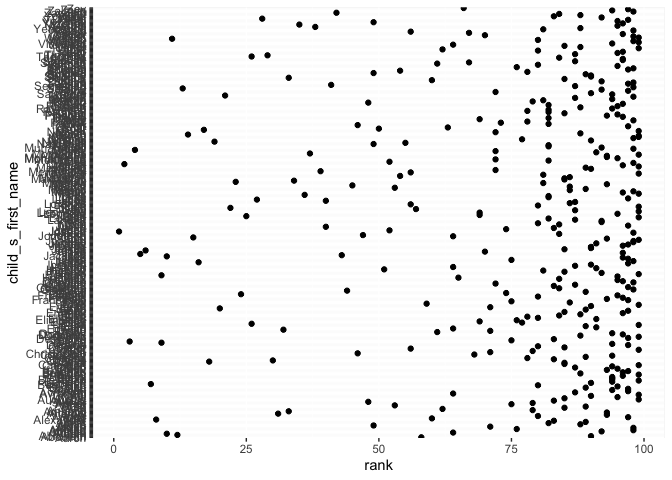
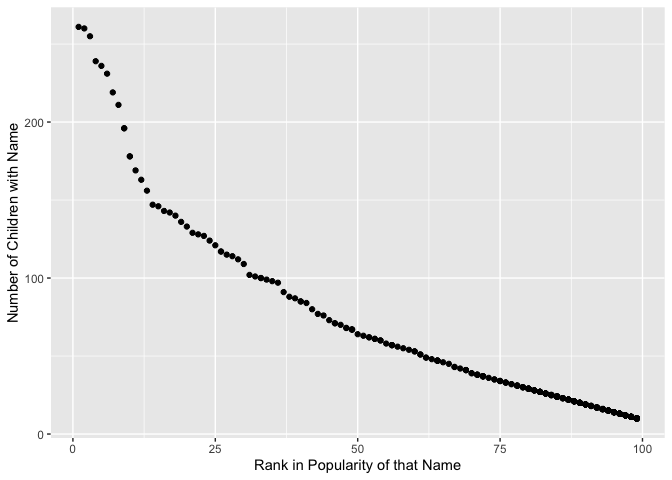
updated problem 3 with better tables, redid the graph

diff --git a/hw2.md b/hw2.md
@@ -20,17 +20,18 @@ Rows without precipitation data were initially omitted, a year variable
 was added, and the month variable was converted to a character variable.
 
 ``` r
-precipitation_2019_df = read_excel("Trash-Wheel-Collection-Totals-new.xlsx", sheet = 6,
-                               range = "A2:B14") 
+precipitation_2019_df = read_excel("Trash-Wheel-Collection-Totals-new.xlsx",
+                                   sheet = 6,range = "A2:B14") 
 precipitation_2019_df = drop_na(precipitation_2019_df, Total) %>% 
                         add_column(Year = "2019")
 
-precipitation_2018_df = read_excel("Trash-Wheel-Collection-Totals-new.xlsx", sheet = 7,
-                               range = "A2:B14") 
+precipitation_2018_df = read_excel("Trash-Wheel-Collection-Totals-new.xlsx",
+                                   sheet = 7, range = "A2:B14") 
 precipitation_2018_df = drop_na(precipitation_2018_df, Total) %>% 
                         add_column(Year = "2018")
 
-precipitation_2018_2019_df = bind_rows(precipitation_2018_df, precipitation_2019_df) %>% 
+precipitation_2018_2019_df = bind_rows(precipitation_2018_df, 
+                                       precipitation_2019_df) %>% 
   janitor::clean_names() %>% 
   pivot_wider(
     names_from = "year",
@@ -82,10 +83,13 @@ pols_month_df = read_csv("pols-month.csv") %>%
   janitor::clean_names() %>% 
   separate(mon, c("year", "month", "day")) %>% 
   mutate(year = as.numeric(year)) %>% 
-  mutate(month = month.abb[as.numeric(month)], month = str_to_lower(month)) %>% 
+  mutate(month = month.abb[as.numeric(month)], 
+         month = str_to_lower(month)) %>% 
   mutate(day = as.numeric(day)) %>% 
-  mutate(prez_gop = recode(prez_gop, `0` = "dem", `1` = "gop", `2` = "gop")) %>% 
-  select(year, month, prez_gop, gov_gop, sen_gop, rep_gop, gov_dem, sen_dem, rep_dem) %>% 
+  mutate(prez_gop = recode(prez_gop, `0` = "dem", 
+                           `1` = "gop", `2` = "gop")) %>% 
+  select(year, month, prez_gop, gov_gop, sen_gop, rep_gop, gov_dem, sen_dem, 
+         rep_dem) %>% 
   rename(president = prez_gop)
 
 snp_df = read_csv("snp.csv") %>% 
@@ -96,17 +100,19 @@ snp_df = read_csv("snp.csv") %>%
   mutate(year = ifelse(year > 2021, year - 100, year)) %>% 
   mutate(month = as.numeric(month)) %>% 
   mutate(month = month.abb[as.numeric(month)], month = str_to_lower(month)) %>% 
-  relocate(year, month, day, close) %>% 
-  select(year, month, close)
+  relocate(year, month, day, close) %>%
+  rename(s_p_closing_value = close) %>% 
+  select(year, month, s_p_closing_value)
 
 unemployment_df = read_csv("unemployment.csv") %>% 
   janitor::clean_names() %>% 
   pivot_longer(
   jan:dec,
    names_to = "month",
-   values_to = "unemployment percentage")
+   values_to = "unemployment_percentage")
 
-snp_pols_df = left_join(pols_month_df, snp_df, by = c("year" = "year", "month" = "month"))
+snp_pols_df = left_join(pols_month_df, snp_df, by = c("year" = "year",
+                                                      "month" = "month"))
 snp_pols_unemp_df = left_join(snp_pols_df, unemployment_df, by = c("year" = "year", "month" = "month"))
 ```
 
@@ -119,16 +125,16 @@ rep\_dem.
 The dataset “snp” contains 787 observations for 3 variables related to
 the Standard and Poor’s (S&P) stock market index. The years included
 range from 1950 to 2015. The variable names in this dataset include:
-year, month, close.
+year, month, s\_p\_closing\_value.
 
 The dataset “unemployment” contains 816 observations for 3 variables
-related to the Standard and Poor’s (S&P) stock market index. The years
-included range from 1950 to 2015. The variable names in this dataset
-include: year, month, unemployment percentage.
+related to the monthly percentage of unemployment from 1950 to 2015. The
+variable names in this dataset include: year, month,
+unemployment\_percentage.
 
 The combined version of these datasets include the following variables:
 year, month, president, gov\_gop, sen\_gop, rep\_gop, gov\_dem,
-sen\_dem, rep\_dem, close, unemployment percentage
+sen\_dem, rep\_dem, s\_p\_closing\_value, unemployment\_percentage
 
 ## Problem 3
 
@@ -143,6 +149,7 @@ babynames_df = read.csv("Popular_Baby_Names.csv") %>%
   mutate(ethnicity = recode(ethnicity, "ASIAN AND PACI" = "ASIAN AND PACIFIC ISLANDER",
                             "BLACK NON HISP" = "BLACK NON HISPANIC", 
                             "WHITE NON HISP" = "WHITE NON HISPANIC")) %>% 
+  mutate(child_s_first_name = toupper(child_s_first_name)) %>% 
   distinct(year_of_birth, sex, ethnicity, child_s_first_name, count, rank)
 ```
 
@@ -150,13 +157,19 @@ I will now create a table showing the rank in popularity and name count
 of the female baby name “Olivia” over time.
 
 ``` r
-olivia_df = filter(babynames_df, child_s_first_name == "Olivia") %>% 
-  pivot_wider(names_from = year_of_birth, values_from = c(rank,count), values_fill = 0) %>% 
-  relocate(child_s_first_name, sex, ethnicity, rank_2013, count_2013, rank_2014, count_2014,
+olivia_df = filter(babynames_df, child_s_first_name == "OLIVIA") %>% 
+  pivot_wider(names_from = year_of_birth, values_from = c(rank,count),
+              values_fill = 0) %>% 
+  relocate(child_s_first_name, sex, ethnicity, rank_2011, count_2011, rank_2012, 
+           count_2012, rank_2013, count_2013, rank_2014, count_2014,
            rank_2015, count_2015, rank_2016, count_2016) %>% 
   rename("Child's Name" = child_s_first_name) %>% 
   rename(Sex = sex) %>% 
   rename("Race/Ethnicity" = ethnicity) %>% 
+  rename("Rank in 2011" = rank_2011) %>% 
+  rename("Count in 2011" = count_2011) %>% 
+  rename("Rank in 2012" = rank_2012) %>% 
+  rename("Count in 2012" = count_2012) %>%
   rename("Rank in 2013" = rank_2013) %>% 
   rename("Count in 2013" = count_2013) %>% 
   rename("Rank in 2014" = rank_2014) %>% 
@@ -170,23 +183,27 @@ olivia_df = filter(babynames_df, child_s_first_name == "Olivia") %>%
 olivia_df
 ```
 
-| Child’s Name | Sex    | Race/Ethnicity             | Rank in 2013 | Count in 2013 | Rank in 2014 | Count in 2014 | Rank in 2015 | Count in 2015 | Rank in 2016 | Count in 2016 |
-|:-------------|:-------|:---------------------------|-------------:|--------------:|-------------:|--------------:|-------------:|--------------:|-------------:|--------------:|
-| Olivia       | FEMALE | ASIAN AND PACIFIC ISLANDER |            3 |           109 |            1 |           141 |            1 |           188 |            1 |           172 |
-| Olivia       | FEMALE | BLACK NON HISPANIC         |            6 |            64 |            8 |            52 |            4 |            82 |            8 |            49 |
-| Olivia       | FEMALE | HISPANIC                   |           22 |            87 |           16 |            96 |           16 |            94 |           13 |           108 |
-| Olivia       | FEMALE | WHITE NON HISPANIC         |            1 |           233 |            1 |           248 |            1 |           225 |            1 |           230 |
+| Child’s Name | Sex    | Race/Ethnicity             | Rank in 2011 | Count in 2011 | Rank in 2012 | Count in 2012 | Rank in 2013 | Count in 2013 | Rank in 2014 | Count in 2014 | Rank in 2015 | Count in 2015 | Rank in 2016 | Count in 2016 |
+|:-------------|:-------|:---------------------------|-------------:|--------------:|-------------:|--------------:|-------------:|--------------:|-------------:|--------------:|-------------:|--------------:|-------------:|--------------:|
+| OLIVIA       | FEMALE | ASIAN AND PACIFIC ISLANDER |            4 |            89 |            3 |           132 |            3 |           109 |            1 |           141 |            1 |           188 |            1 |           172 |
+| OLIVIA       | FEMALE | BLACK NON HISPANIC         |           10 |            52 |            8 |            58 |            6 |            64 |            8 |            52 |            4 |            82 |            8 |            49 |
+| OLIVIA       | FEMALE | HISPANIC                   |           18 |            86 |           22 |            77 |           22 |            87 |           16 |            96 |           16 |            94 |           13 |           108 |
+| OLIVIA       | FEMALE | WHITE NON HISPANIC         |            2 |           213 |            4 |           198 |            1 |           233 |            1 |           248 |            1 |           225 |            1 |           230 |
 
 I will now produce a table ranking the most popular name among male
 children over time.
 
 ``` r
+#Identify male names with rank = 1
+popular_male_names_df = select(babynames_df, year_of_birth, sex, ethnicity,
+                                child_s_first_name, rank) %>% 
+  filter(sex == "MALE", rank == '1') 
+
 popular_male_names_df = select(babynames_df, year_of_birth, sex, ethnicity, child_s_first_name, rank) %>% 
-  filter(sex == "MALE", rank == '1') %>% 
-  pivot_wider(names_from = year_of_birth, values_from = rank) %>% 
+  filter(child_s_first_name %in% c("ETHAN", "NOAH","LIAM","JOSEPH","JAYDEN","DAVID", "RYAN","MICHAEL")) %>% 
+pivot_wider(names_from = year_of_birth, values_from = rank) %>% 
   relocate(child_s_first_name, ethnicity, '2016', '2015', '2014', '2013', '2012', '2011') %>% 
   select(child_s_first_name, ethnicity, '2016', '2015', '2014', '2013', '2012', '2011') %>% 
-  rename("Child's Name" = child_s_first_name) %>% 
   rename("Race/Ethnicity" = ethnicity) %>% 
   rename("Rank in 2016" = '2016') %>% 
   rename("Rank in 2015" = '2015') %>% 
@@ -194,6 +211,8 @@ popular_male_names_df = select(babynames_df, year_of_birth, sex, ethnicity, chil
   rename("Rank in 2013" = '2013') %>% 
   rename("Rank in 2012" = '2012') %>% 
   rename("Rank in 2011" = '2011') %>% 
+  arrange(child_s_first_name) %>% 
+  rename("Child's Name" = child_s_first_name) %>% 
   knitr::kable()
 
 popular_male_names_df
@@ -201,30 +220,51 @@ popular_male_names_df
 
 | Child’s Name | Race/Ethnicity             | Rank in 2016 | Rank in 2015 | Rank in 2014 | Rank in 2013 | Rank in 2012 | Rank in 2011 |
 |:-------------|:---------------------------|-------------:|-------------:|-------------:|-------------:|-------------:|-------------:|
-| Ethan        | ASIAN AND PACIFIC ISLANDER |            1 |           NA |           NA |           NA |           NA |           NA |
-| Noah         | BLACK NON HISPANIC         |            1 |            1 |           NA |           NA |           NA |           NA |
-| Liam         | HISPANIC                   |            1 |            1 |            1 |           NA |           NA |           NA |
-| Joseph       | WHITE NON HISPANIC         |            1 |           NA |            1 |           NA |           NA |           NA |
-| Jayden       | ASIAN AND PACIFIC ISLANDER |           NA |            1 |            1 |            1 |           NA |           NA |
-| David        | WHITE NON HISPANIC         |           NA |            1 |           NA |            1 |           NA |           NA |
-| Ethan        | BLACK NON HISPANIC         |           NA |           NA |            1 |            1 |           NA |           NA |
-| Jayden       | HISPANIC                   |           NA |           NA |           NA |            1 |           NA |           NA |
-| RYAN         | ASIAN AND PACIFIC ISLANDER |           NA |           NA |           NA |           NA |            1 |           NA |
-| JAYDEN       | BLACK NON HISPANIC         |           NA |           NA |           NA |           NA |            1 |            1 |
-| JAYDEN       | HISPANIC                   |           NA |           NA |           NA |           NA |            1 |            1 |
-| JOSEPH       | WHITE NON HISPANIC         |           NA |           NA |           NA |           NA |            1 |           NA |
-| ETHAN        | ASIAN AND PACIFIC ISLANDER |           NA |           NA |           NA |           NA |           NA |            1 |
-| MICHAEL      | WHITE NON HISPANIC         |           NA |           NA |           NA |           NA |           NA |            1 |
+| DAVID        | ASIAN AND PACIFIC ISLANDER |           43 |           31 |           38 |           27 |           33 |           38 |
+| DAVID        | BLACK NON HISPANIC         |           13 |           19 |           28 |           26 |           16 |           15 |
+| DAVID        | HISPANIC                   |           21 |           16 |           14 |           12 |           18 |           15 |
+| DAVID        | WHITE NON HISPANIC         |            3 |            1 |            2 |            1 |            2 |            4 |
+| ETHAN        | ASIAN AND PACIFIC ISLANDER |            1 |            2 |            2 |            2 |            2 |            1 |
+| ETHAN        | BLACK NON HISPANIC         |            5 |            5 |            1 |            1 |            3 |            6 |
+| ETHAN        | HISPANIC                   |            7 |            3 |            5 |            5 |            4 |            6 |
+| ETHAN        | WHITE NON HISPANIC         |           20 |           19 |           18 |           23 |           21 |           26 |
+| JAYDEN       | ASIAN AND PACIFIC ISLANDER |            5 |            1 |            1 |            1 |            2 |            2 |
+| JAYDEN       | BLACK NON HISPANIC         |           11 |           10 |            3 |            2 |            1 |            1 |
+| JAYDEN       | HISPANIC                   |            8 |            7 |            4 |            1 |            1 |            1 |
+| JAYDEN       | WHITE NON HISPANIC         |           91 |           78 |           77 |           78 |           74 |           68 |
+| JOSEPH       | ASIAN AND PACIFIC ISLANDER |           40 |           43 |           50 |           44 |           42 |           45 |
+| JOSEPH       | BLACK NON HISPANIC         |           42 |           37 |           45 |           35 |           24 |           39 |
+| JOSEPH       | HISPANIC                   |           26 |           20 |           25 |           19 |           23 |           22 |
+| JOSEPH       | WHITE NON HISPANIC         |            1 |            2 |            1 |            2 |            1 |            2 |
+| LIAM         | ASIAN AND PACIFIC ISLANDER |            9 |            9 |           16 |           10 |           29 |           41 |
+| LIAM         | BLACK NON HISPANIC         |            4 |            2 |            6 |           10 |           11 |           24 |
+| LIAM         | HISPANIC                   |            1 |            1 |            1 |           11 |           24 |           32 |
+| LIAM         | WHITE NON HISPANIC         |           22 |           20 |           19 |           21 |           20 |           20 |
+| MICHAEL      | ASIAN AND PACIFIC ISLANDER |           30 |           30 |           27 |           34 |           36 |           29 |
+| MICHAEL      | BLACK NON HISPANIC         |           12 |           12 |           12 |           12 |            6 |           10 |
+| MICHAEL      | HISPANIC                   |           22 |           18 |           13 |           16 |           14 |           16 |
+| MICHAEL      | WHITE NON HISPANIC         |            2 |            6 |            3 |            3 |            3 |            1 |
+| NOAH         | ASIAN AND PACIFIC ISLANDER |           18 |           17 |           29 |           20 |           25 |           47 |
+| NOAH         | BLACK NON HISPANIC         |            1 |            1 |            2 |            3 |            9 |           11 |
+| NOAH         | HISPANIC                   |            5 |            5 |            3 |            9 |           20 |           19 |
+| NOAH         | WHITE NON HISPANIC         |           14 |           20 |           21 |           14 |           21 |           31 |
+| RYAN         | WHITE NON HISPANIC         |           81 |           80 |           NA |           NA |           80 |           77 |
+| RYAN         | ASIAN AND PACIFIC ISLANDER |            2 |            3 |            3 |            3 |            1 |            3 |
+| RYAN         | BLACK NON HISPANIC         |           26 |           33 |           28 |           23 |           13 |           33 |
+| RYAN         | HISPANIC                   |           27 |           33 |           32 |           26 |           28 |           26 |
+| RYAN         | WHITE NON HISPANIC         |           21 |           25 |           20 |           22 |           14 |           24 |
 
 I will now create a scatter plot showing the number of children with a
 name vs. the rank in popularity of that name, for white non-hispanic
-children born in 2016.
+male children born in 2016.
 
 ``` r
-scatter_plot_df = select(babynames_df, year_of_birth, sex, ethnicity, child_s_first_name, rank) %>% 
-                         filter(year_of_birth == '2016', sex == "MALE", ethnicity == "WHITE NON HISPANIC")
+scatter_plot_df = select(babynames_df, year_of_birth, sex, ethnicity, child_s_first_name, rank, count) %>% 
+                         filter(year_of_birth == '2016', sex == "MALE", ethnicity == "WHITE NON HISPANIC") 
 
-ggplot(scatter_plot_df, aes(x = rank, y = child_s_first_name)) + geom_point()
+ggplot(scatter_plot_df, aes(x = rank, y = count)) + 
+  geom_point() +
+  xlab("Rank in Popularity of that Name") + ylab("Number of Children with Name")
 ```
 
 ![](hw2_files/figure-gfm/unnamed-chunk-10-1.png)<!-- -->
